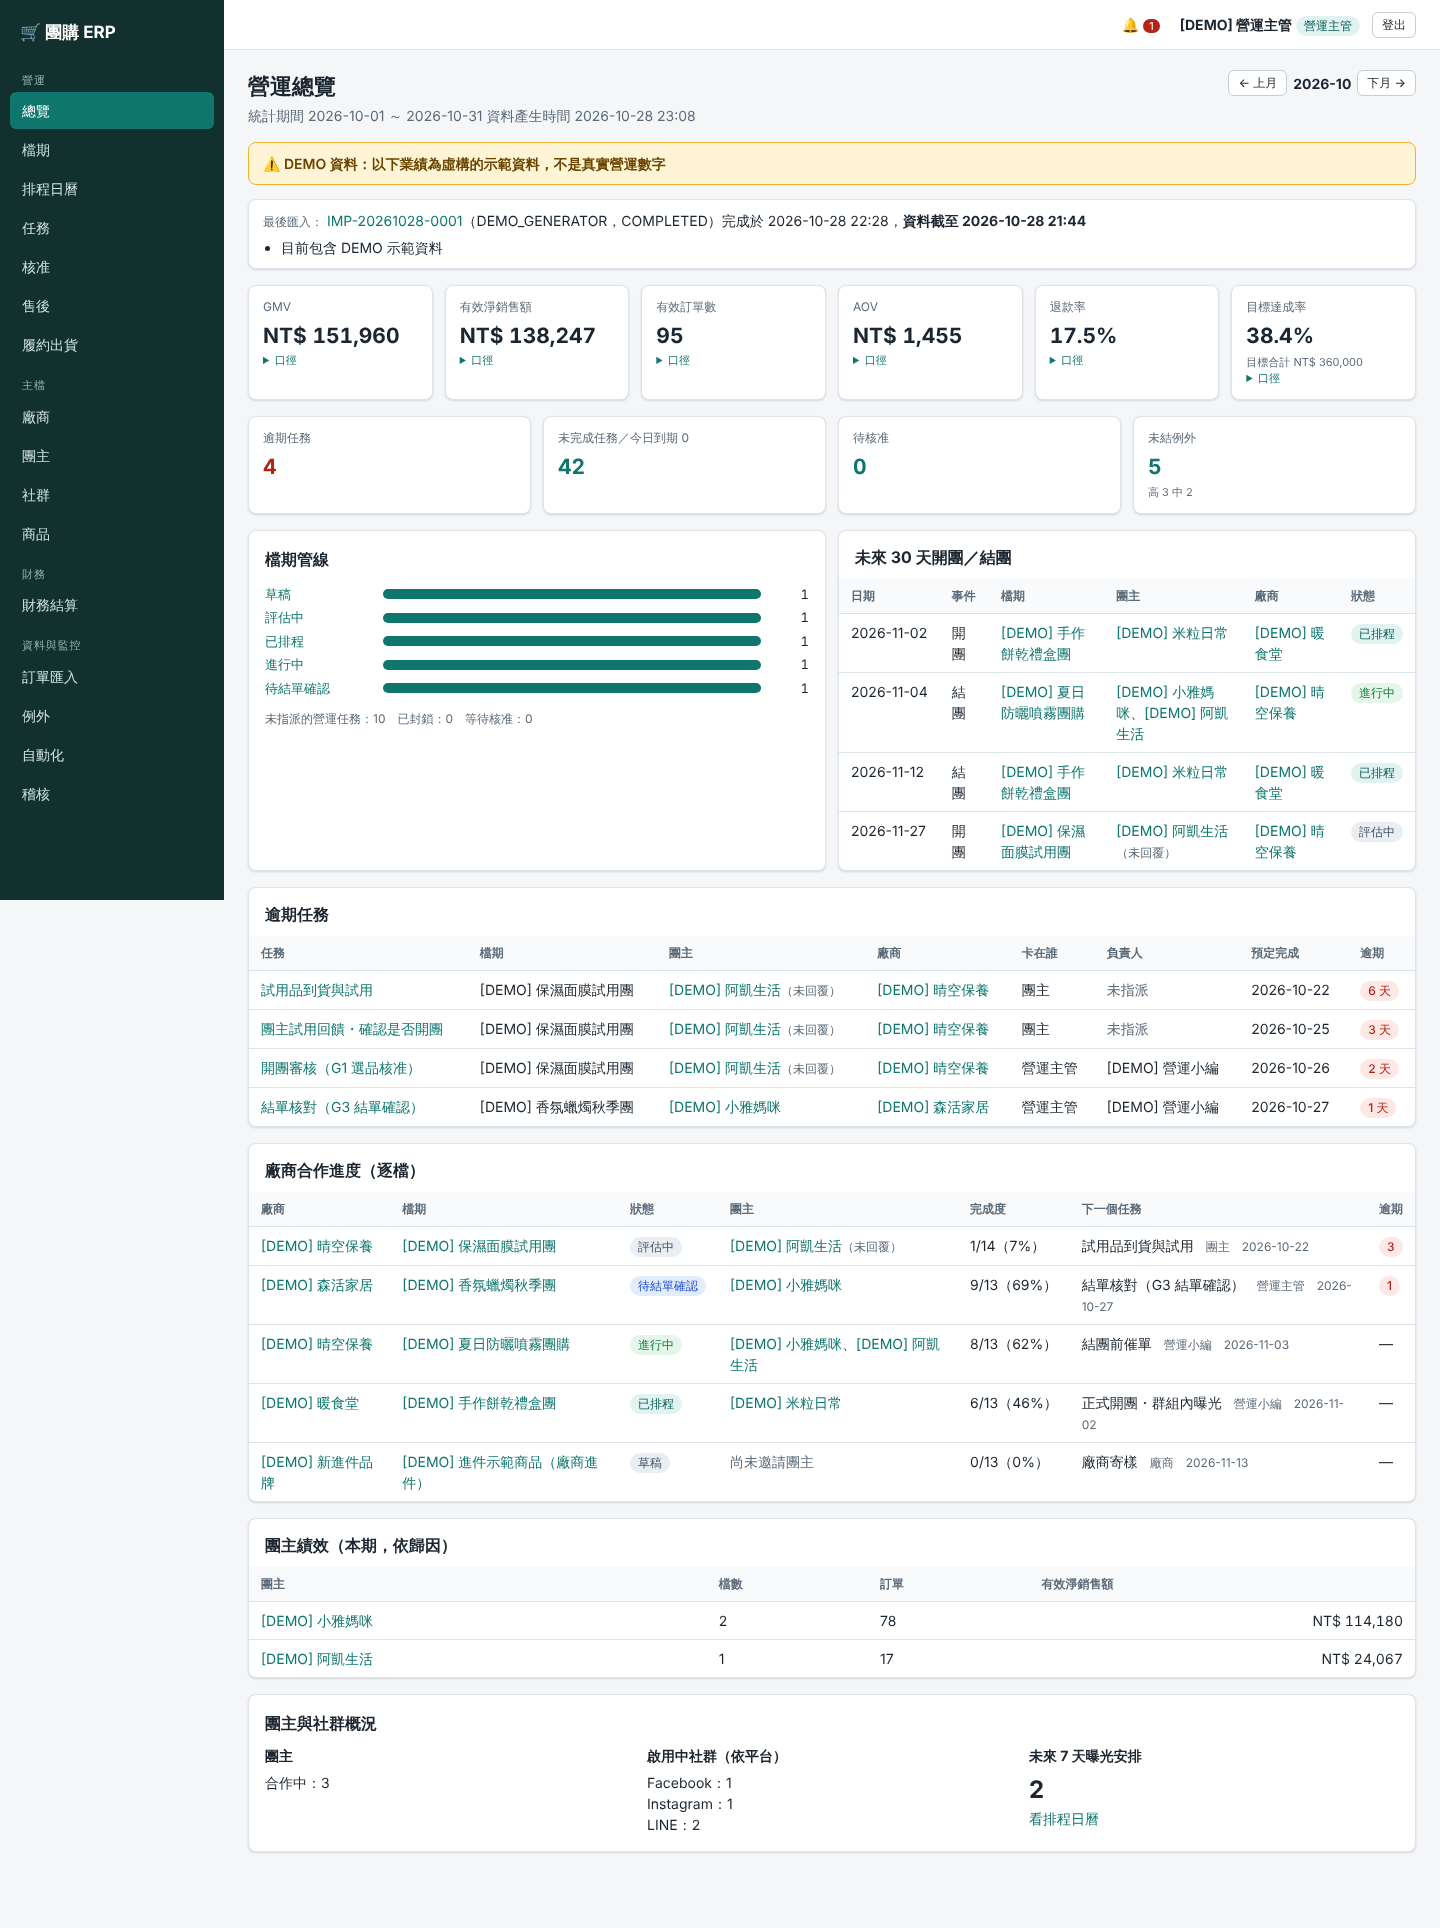
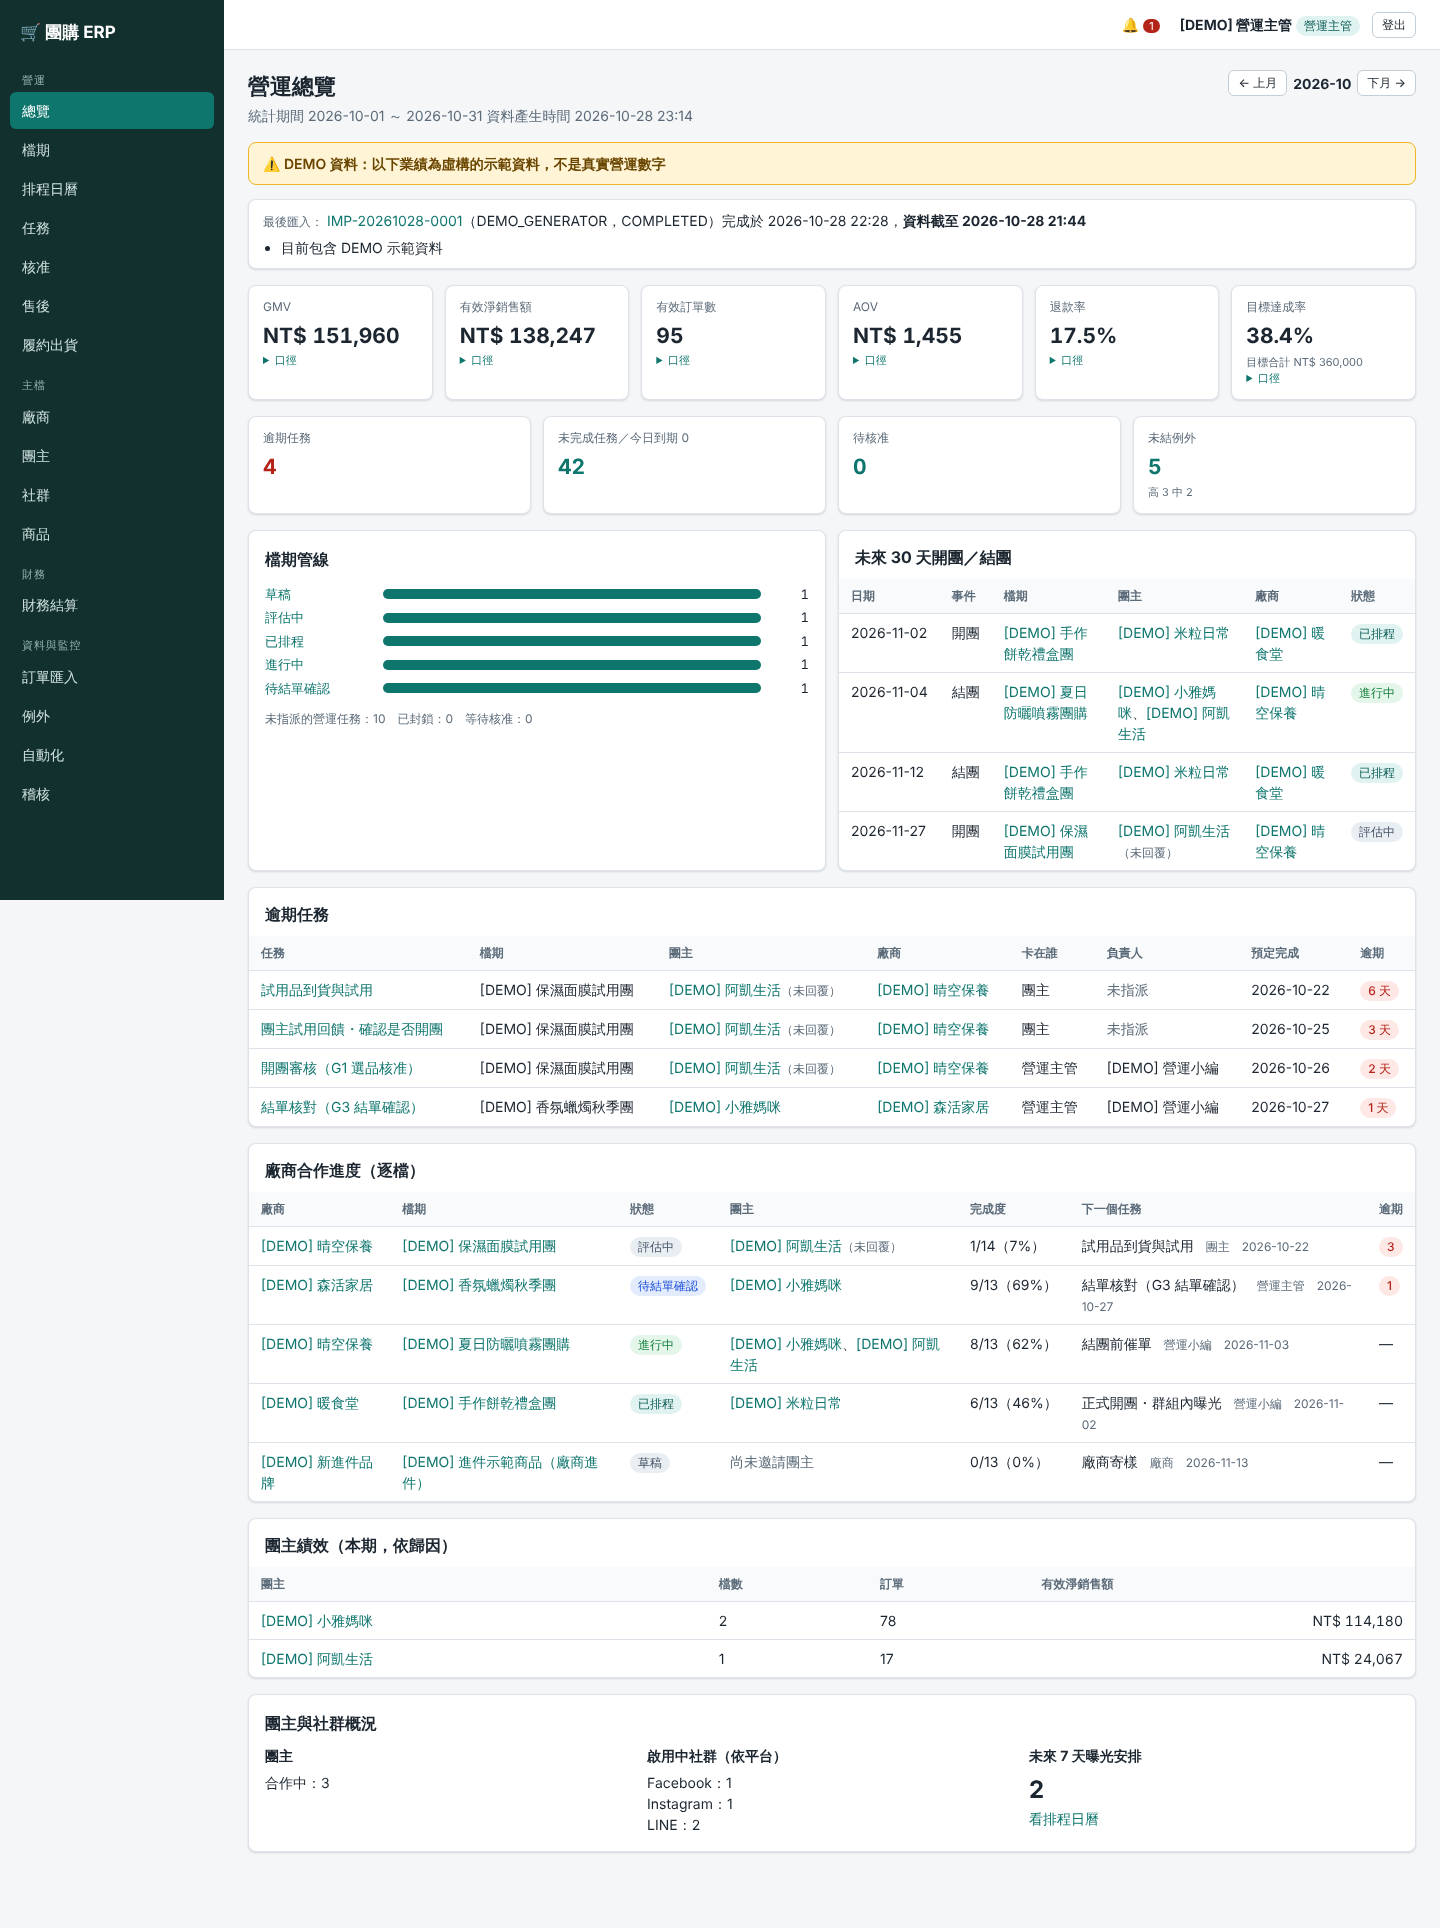
fix(dashboard): 事件欄不換行；更新總覽畫面截圖
Claude-Session: https://claude.ai/code/session_01YSzTHPcBVxK1Rqana44Uqa

Changed region(s): [[0.6562, 0.3112, 0.8438, 0.4668], [0.875, 0.3112, 0.9062, 0.3734], [0.875, 0.4046, 0.9062, 0.4357]]

diff --git a/src/app/(app)/dashboard/page.tsx b/src/app/(app)/dashboard/page.tsx
@@ -73,7 +73,7 @@ export default withActor(async (actor, props: { searchParams: SP }) => {
           {d.upcoming.length === 0 ? <EmptyState title="未來 30 天沒有開團或結團" /> : (
             <Table head={['日期', '事件', '檔期', '團主', '廠商', '狀態']}>
               {d.upcoming.map((u) => (
-                <tr key={`${u.id}${u.event}`} data-testid={`upcoming-${u.id}`}><td className="nowrap">{u.eventDate}</td><td>{u.event === 'OPEN' ? '開團' : '結團'}</td><td><Link href={`/campaigns/${u.id}`}>{u.title}</Link></td><td data-testid={`upcoming-hosts-${u.id}`}><HostNames hosts={u.hosts} /></td><td><Link href={`/vendors/${u.vendorId}`}>{u.vendorName}</Link></td><td><StatusBadge map={CAMPAIGN_STATUS} value={u.status} /></td></tr>
+                <tr key={`${u.id}${u.event}`} data-testid={`upcoming-${u.id}`}><td className="nowrap">{u.eventDate}</td><td className="nowrap">{u.event === 'OPEN' ? '開團' : '結團'}</td><td><Link href={`/campaigns/${u.id}`}>{u.title}</Link></td><td data-testid={`upcoming-hosts-${u.id}`}><HostNames hosts={u.hosts} /></td><td><Link href={`/vendors/${u.vendorId}`}>{u.vendorName}</Link></td><td><StatusBadge map={CAMPAIGN_STATUS} value={u.status} /></td></tr>
               ))}
             </Table>
           )}
